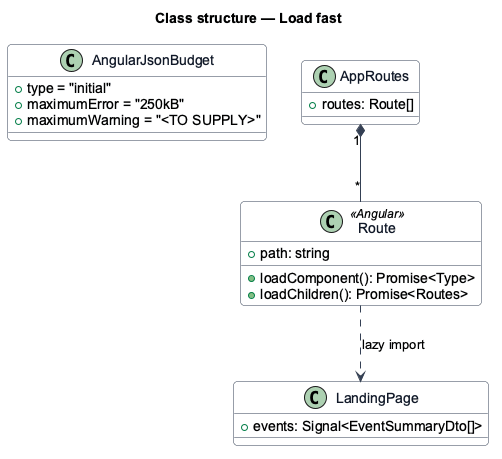
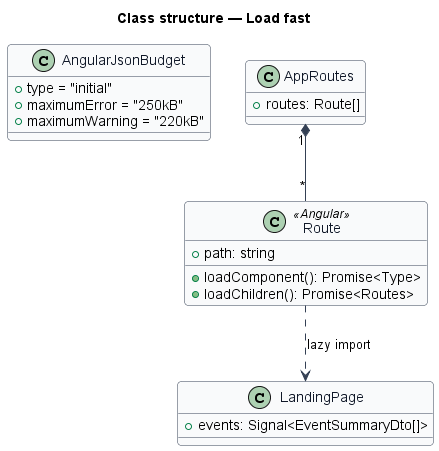
Specify app titles and resolve the workspace's design markers
Add L2-038 AC6 (document title and one main landmark), set the initial
warning budget, confirm the skip link from the mocks and tag the sweeps.

Claude-Session: https://claude.ai/code/session_01LjZiMqsjT8jL49Vuccb2Zr

diff --git a/docs/detailed-designs/accessibility/meet-wcag/README.md b/docs/detailed-designs/accessibility/meet-wcag/README.md
@@ -17,9 +17,11 @@ non-colour state, contrast, touch target size and reduced motion.
 - **Design system tokens** — `docs/design-system/tokens` defines colour roles with contrast verified at 4.5:1 for text in light and dark themes; components read roles, never hex values.
 - **Focus** — a global foundation style sets `:focus-visible` outlines from a focus token; no component removes outlines without a replacement.
 - **Components library** — each control in `projects/components` meets 44 × 44 px; state uses attributes (`aria-current`, `aria-invalid`, `aria-pressed`, `aria-selected`, `disabled`) and the BEM stylesheet styles through them, adding an icon or text so colour is not the only carrier. Examples: unread conversations in `mini-row` carry a count badge with text; member status chips in `admin-members` carry the status word.
-- **Keyboard order** — DOM order follows visual order; dialogs use CDK Dialog with focus trap and return focus on close; the app shells provide a skip link `<TO SUPPLY: mock confirmation>`.
-- **Reduced motion** — a foundation media query `@media (prefers-reduced-motion: reduce)` sets motion tokens to `0ms`; components use those tokens only.
-- **Checks** — an accessibility Playwright sweep, run on request, opens each screen and dialog of both apps and runs axe with WCAG 2.2 A and AA tags; behaviour specs drive key flows by keyboard only through page objects.
+- **Keyboard order** — DOM order follows visual order; dialogs use CDK Dialog with focus trap and return focus on close; the app shells provide a skip link, `<a class="skip-link" href="#main">Skip to content</a>`, as the first focusable element (confirmed by every page mock that has a header or navigation; it arrives with the first shell that has something to skip, the member and admin layouts).
+- **Title and landmark** — each app's `index.html` names the app in `<title>` ("Christian Fitness", "Christian Fitness Admin") and every routed screen puts its content in one `<main id="main">`, the skip link's target (`L2-038` AC6).
+- **Reduced motion** — a foundation media query `@media (prefers-reduced-motion: reduce)` in `tokens.css` sets the motion duration tokens to `0.01ms`; components use those tokens only, and the reset turns off smooth scrolling.
+- **Foundations** — each app's global stylesheet is foundations only: a byte-for-byte copy of `docs/design-system/tokens/tokens.css` with the self-hosted Barlow and Barlow Condensed fonts, a reset and utilities (`visually-hidden`), plus the `:focus-visible` outline.
+- **Checks** — an accessibility Playwright sweep, tagged `@sweep` and run on request (`CF_SWEEPS=1`), opens each screen and dialog of both apps and runs axe with WCAG 2.2 A and AA tags; behaviour specs drive key flows by keyboard only through page objects.
 
 ## Requirements
 
@@ -30,7 +32,7 @@ sentence, so the criteria are quoted.
 
 | L2 ID | Refines (L1) | Requirement |
 |-------|--------------|-------------|
-| `L2-038` | `L1-015` | 1. Given any screen, when checked with axe, then it has no WCAG 2.2 A or AA violations. 2. Given any interaction, when performed by keyboard only, then it is reachable in a logical order with a visible focus indicator. 3. Given any state (selected, invalid, unread, status), when shown, then it is not conveyed by colour alone. 4. Given text and controls, when measured, then text contrast is at least 4.5:1 and touch targets at least 44 × 44 px. 5. Given a user who prefers reduced motion, when they use the apps, then non-essential animation is disabled. |
+| `L2-038` | `L1-015` | 1. Given any screen, when checked with axe, then it has no WCAG 2.2 A or AA violations. 2. Given any interaction, when performed by keyboard only, then it is reachable in a logical order with a visible focus indicator. 3. Given any state (selected, invalid, unread, status), when shown, then it is not conveyed by colour alone. 4. Given text and controls, when measured, then text contrast is at least 4.5:1 and touch targets at least 44 × 44 px. 5. Given a user who prefers reduced motion, when they use the apps, then non-essential animation is disabled. 6. Given any screen of either app, when it loads, then the document title names the app ("Christian Fitness" in the member app, "Christian Fitness Admin" in the admin app) and the screen's content sits in one `main` landmark. |
 
 ## Diagrams
 

diff --git a/docs/detailed-designs/performance/load-fast/README.md b/docs/detailed-designs/performance/load-fast/README.md
@@ -14,7 +14,8 @@ experience targets on the landing page.
 
 ## Description
 
-- **`angular.json` budgets** — for `web` and `admin`, an `initial` budget with `maximumError: 250kB` (raw); the warning threshold is `<TO SUPPLY>`. A breach fails `ng build` and CI.
+- **`angular.json` budgets** — for `web` and `admin`, an `initial` budget with `maximumError: 250kB` (raw) and `maximumWarning: 220kB`, about 4% above the initial total each app measured when the workspace was created (212.29 kB: 192.26 kB of JavaScript and 20.02 kB of foundation CSS). Each component stylesheet has an `anyComponentStyle` budget of `2kB` (warning) and `4kB` (error). A breach of an error budget fails `ng build` and CI; raising a budget needs a stated reason.
+- **Workspace** — one Angular workspace in `frontend/` holds the `web` and `admin` applications and the `components`, `domain` and `api` libraries, which are compiled from source into each app through the `@cf/components`, `@cf/domain` and `@cf/api` path aliases, so only what an app imports reaches its bundle (ADR 0001). ESLint enforces the dependency direction (ADR 0002).
 - **Lazy routes** — every entry in `projects/web/src/app/app.routes.ts` and `projects/admin/src/app/app.routes.ts` uses `loadComponent` or `loadChildren`; no page component is imported eagerly. Heavy below-the-fold UI uses `@defer`.
 - **Composition root** — `app.config.ts` binds tokens with lightweight providers; feature services are provided on routed components, not in `root`.
 - **Landing page** — the hero image has explicit `width`/`height` and `fetchpriority="high"`; fonts are self-hosted with `font-display: swap` and preloaded; event cards reserve space while loading (`skeleton` block in the mocks) to keep CLS under 0.1.

diff --git a/docs/detailed-designs/performance/stay-stable-in-long-sessions/README.md b/docs/detailed-designs/performance/stay-stable-in-long-sessions/README.md
@@ -16,7 +16,7 @@ each screen acquires and bound what grows, so memory returns to its baseline.
 - **Screen-scoped providers** — a screen's store (for example `ChatStore`, `EventsStore`) is in its routed component's `providers`, so Angular destroys it with the component.
 - **`CHAT_CONNECTION` / `SignalRChatConnection`** — the single real-time client, shared through the Messages parent route. Each `on(...)` registration returns a disposer that the subscribing store calls on destroy; the connection stops when the last subscriber leaves.
 - **`BoundedBuffer<T>`** — pure helper in the `domain` library with unit tests; chat keeps at most 200 messages (`L2-016` AC6), and long lists keep a window sized `<TO SUPPLY>`.
-- **Heap sweep** — a Playwright spec, run on request, navigates between screens 50 times, forces garbage collection through the Chrome DevTools Protocol and asserts the heap is within 10% of the first-visit baseline.
+- **Heap sweep** — a Playwright spec, tagged `@sweep` and run on request (`CF_SWEEPS=1`), navigates between screens 50 times, forces garbage collection through the Chrome DevTools Protocol and asserts the heap is within 10% of the first-visit baseline.
 
 ## Requirements
 

diff --git a/docs/detailed-designs/accessibility/adapt-to-viewports/README.md b/docs/detailed-designs/accessibility/adapt-to-viewports/README.md
@@ -18,7 +18,7 @@ screens.
 - **Services and Messages routes** — below LG, `/services` and `/messages` show the list and `/services/:id` and `/messages/:id` show the detail as separate screens; at LG and above the parent component renders both side by side (mocks `pages/services`, `pages/messages` `list` and `default` states).
 - **Forms** — form layouts in the `dialogs/` mocks use a single full-width column at XS; the primary action sits in a sticky footer so it stays visible.
 - **Admin tables** — below LG, tables become stacked cards (`L2-021`).
-- **Responsive sweep** — a Playwright spec, run on request, opens each screen at 375, 576, 768, 992 and 1440 px and asserts `document.documentElement.scrollWidth <= clientWidth`.
+- **Responsive sweep** — a Playwright spec, tagged `@sweep` and run on request (`CF_SWEEPS=1`), opens each screen at 375, 576, 768, 992 and 1440 px and asserts `document.documentElement.scrollWidth <= clientWidth`.
 
 ## Requirements
 

diff --git a/docs/specs/L2.md b/docs/specs/L2.md
@@ -403,6 +403,7 @@ Editing opens a dialog or a screen; there are no inline forms.
 3. Given any state (selected, invalid, unread, status), when shown, then it is not conveyed by colour alone.
 4. Given text and controls, when measured, then text contrast is at least 4.5:1 and touch targets at least 44 × 44 px.
 5. Given a user who prefers reduced motion, when they use the apps, then non-essential animation is disabled.
+6. Given any screen of either app, when it loads, then the document title names the app ("Christian Fitness" in the member app, "Christian Fitness Admin" in the admin app) and the screen's content sits in one `main` landmark.
 
 ---
 
